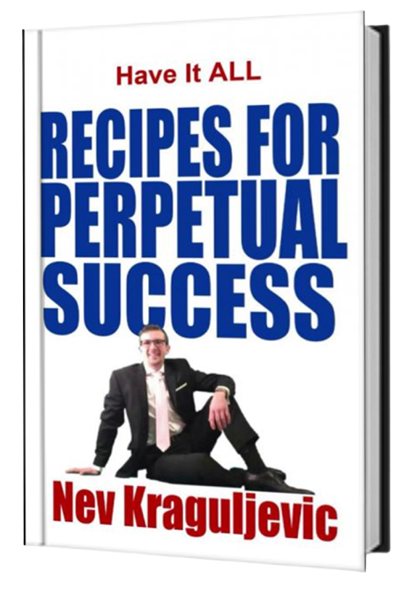
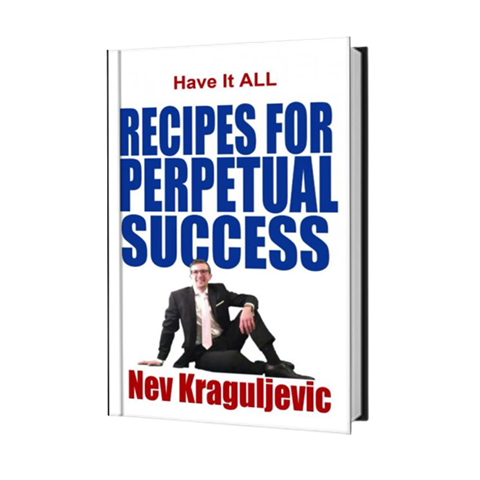
changed image to smaller size

diff --git a/src/books.js b/src/books.js
@@ -5,12 +5,13 @@ import Blessed from './images/blessed.png'
 import MoneyArt from './images/artOfMoney.png'
 import Challenge from './images/Buffett Of RE.png'
 import Pivot from './images/pivot.png'
+import Bundle from './images/Book Bundle.png'
 
 export const books = {
   Books: [
     {
       name: 'Money EMT',
-      price: 2.99,
+      price: 4.99,
       rating: 4.5,
       image: Emt,
       about: `Millions of people are finding themselves deep in debt today, having to continuously borrow in order to make ends meet. This is a fianncial emergency of epic proportion and the only solution is Money EMT. In this book, you will learn how to use the most effective and easy money management techniques to help you eliminate your debt fast, create financial runways, and start taking your personal financial plan to the next level.`,
@@ -25,7 +26,7 @@ export const books = {
     },
     {
       name: 'The Art Of Money Getting',
-      price: 4.99,
+      price: 6.99,
       rating: 5,
       image: MoneyArt,
       about:
@@ -34,7 +35,7 @@ export const books = {
     {
       name:
         'The Pivot Point System: 5 Keys To Transform Your Career, Health, & Wealth',
-      price: 7.99,
+      price: 9.99,
       rating: 4.7,
       image: Pivot,
       about:
@@ -43,16 +44,23 @@ export const books = {
     {
       name:
         'From Financially Stressed To Money Blessed: Become Financially Independent and Retire Early At Any Age',
-      price: 12.99,
+      price: 14.99,
       rating: 5,
       image: Blessed,
       about: `Whether you are starting from nothing or are deeply in debt, struggling for years, this book will help you think about money and investing differently. It will help you become financially independent and retire early, regardless of your age. This is not your average, run-of-the-mill retirement book. It's a book that will help you think about money, investing, retirement and life differently.`,
+    },
+    {
+      name: 'Book Bundle',
+      price: 29.99,
+      rating: 5,
+      image: Bundle,
+      about: `This bundle includes 5 books from the author and a workbook. If your focus is to drastically improve your financial health, this bundle is for you. Buy them all, speed up your financial health and save in the process.`,
     },
   ],
   Workbooks: [
     {
       name: 'My Best Year Ever: Success Journal',
-      price: 3.99,
+      price: 1.99,
       rating: 5,
       image: Bestyr,
       about: `If you've been struggling to make the most of your year, this workbook is for you. This workbook will guide you to plan our your months and your weeks. But unlike any other planner, this one also focuses on money. It keeps you accountable to yourself and your goals, to make the most of your year.`,
